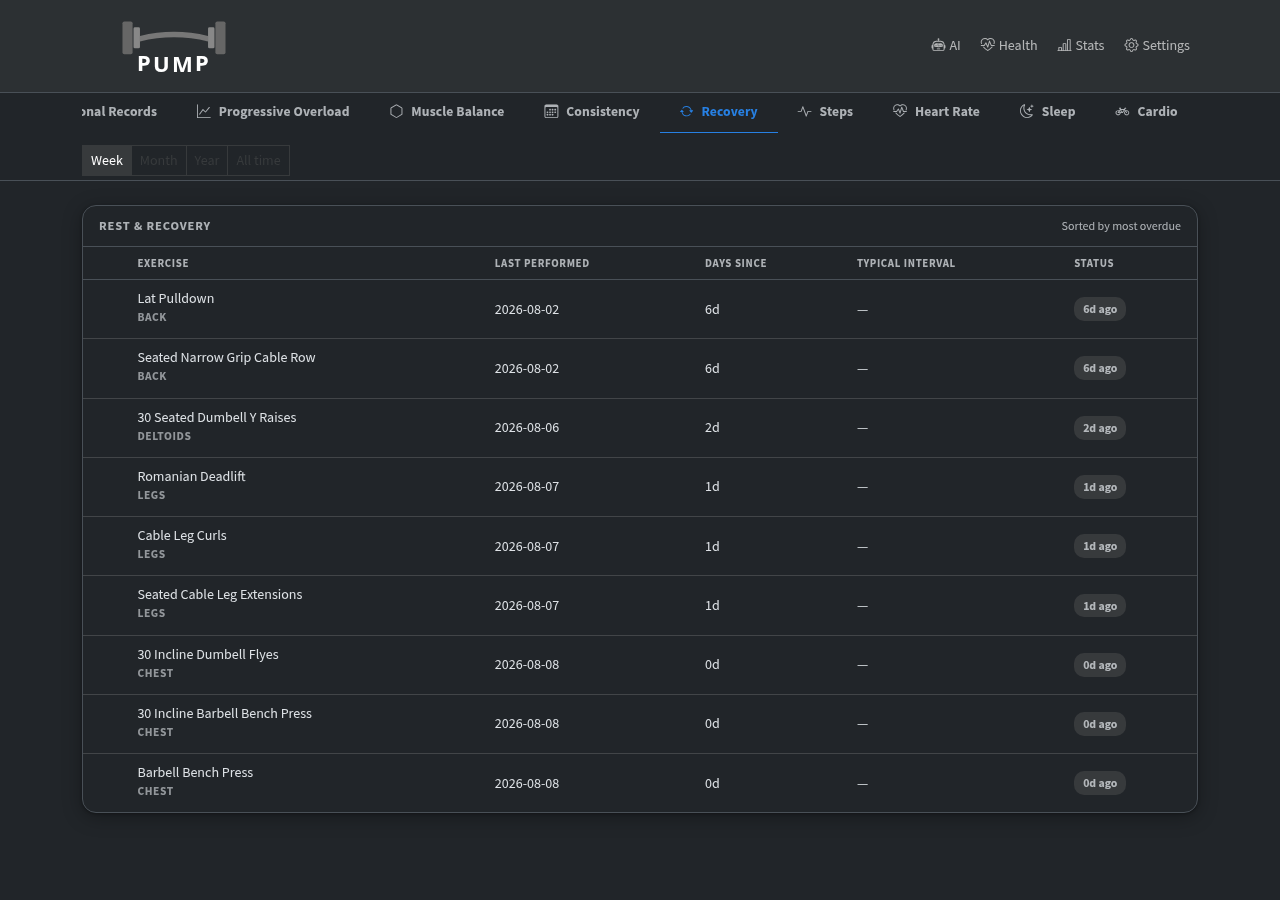
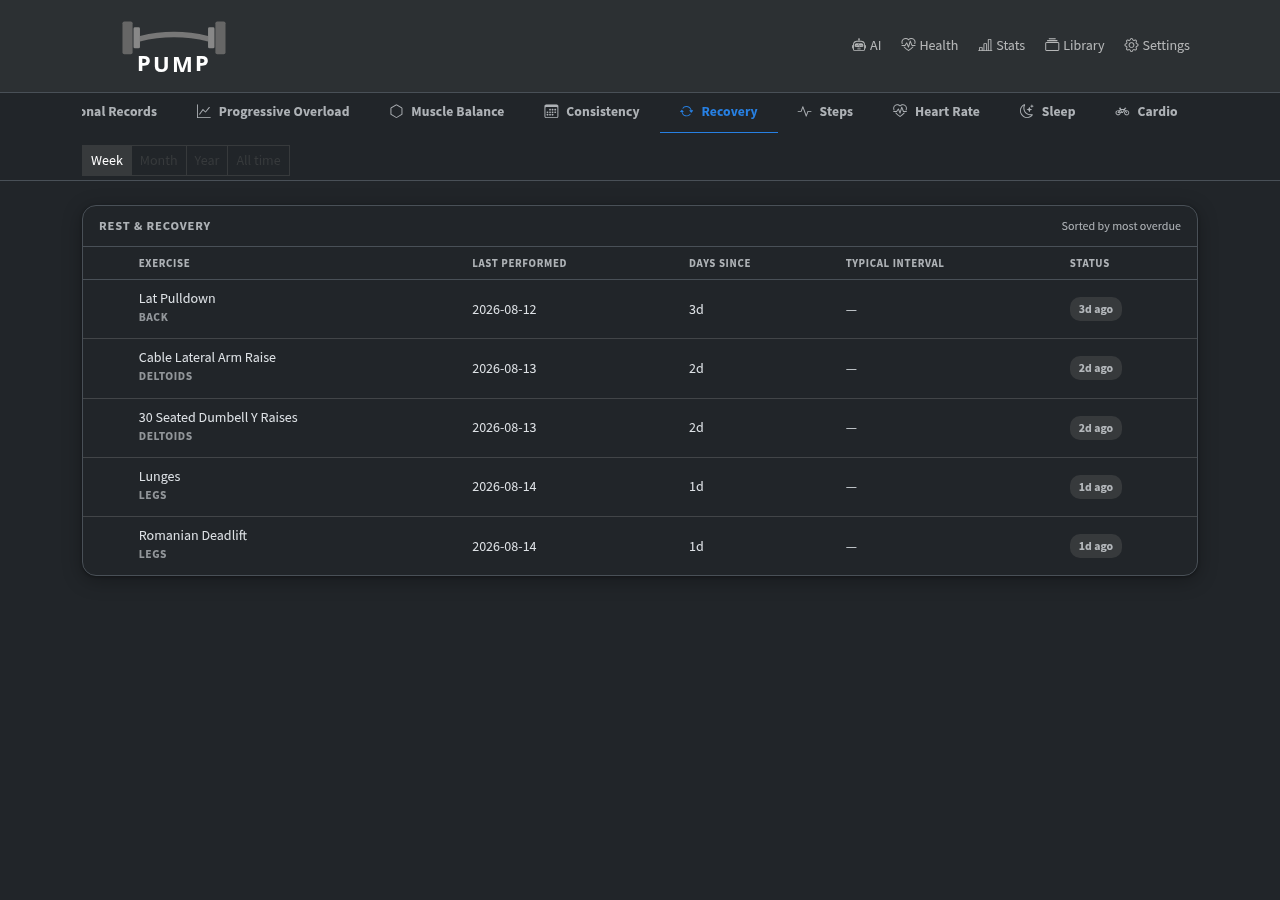
chore(release): regenerate screenshots + README for the v0.1.0 feature bundle
Pre-tag ritual for pump-v0.1.0. Screenshots regenerated at 1280×900 via CDP
against a clean restore of the production database (which also validated the
v14→v17 migration path on real data), reflecting the new nav and pages:

- New Exercise Library page (screenshot-library.png) — groups, routines, and
  exercise management, added to the README showcase.
- Workout page updated (Library nav item, Start-routine dropdown, no on-page
  New/Edit — those moved to the Library).
- All Stats tabs + Health + Config refreshed.

README intro now describes the Library, routines, and primary/secondary focus
muscles. Env-var table audited against the code — no drift.

diff --git a/README.md b/README.md
@@ -5,7 +5,11 @@
 
 <p align="center"><img src="assets/logo.svg" alt="PUMP" width="320"></p>
 
-**Please Use More Protein** — workout diary with daily set logging, body weight tracking, training stats, and a whole-body **Health** dashboard fed by your fitness tracker via Android Health Connect.
+**Please Use More Protein** — workout diary with daily set logging, body weight tracking, an exercise **Library** (managed groups, reusable routines/templates, and per-exercise primary/secondary focus muscles), training stats, and a whole-body **Health** dashboard fed by your fitness tracker via Android Health Connect.
+
+| Exercise Library — groups, routines & exercise management |
+|---|
+| ![Exercise Library](assets/screenshot-library.png) |
 
 | Overall Health | Workout | Stats: Exercise Distribution |
 |---|---|---|
